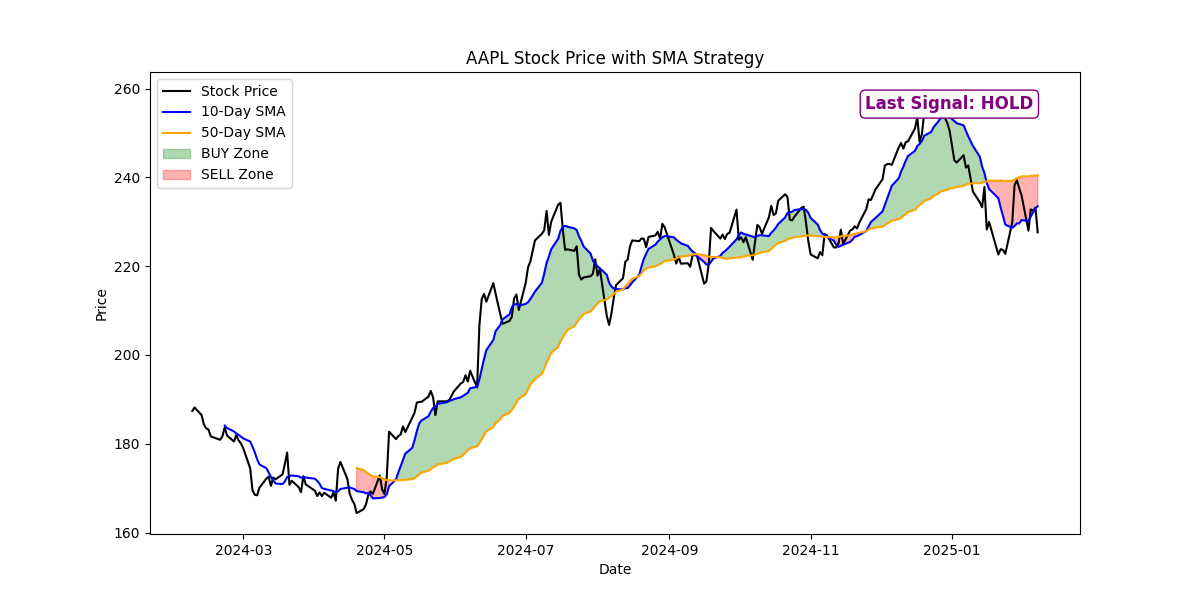
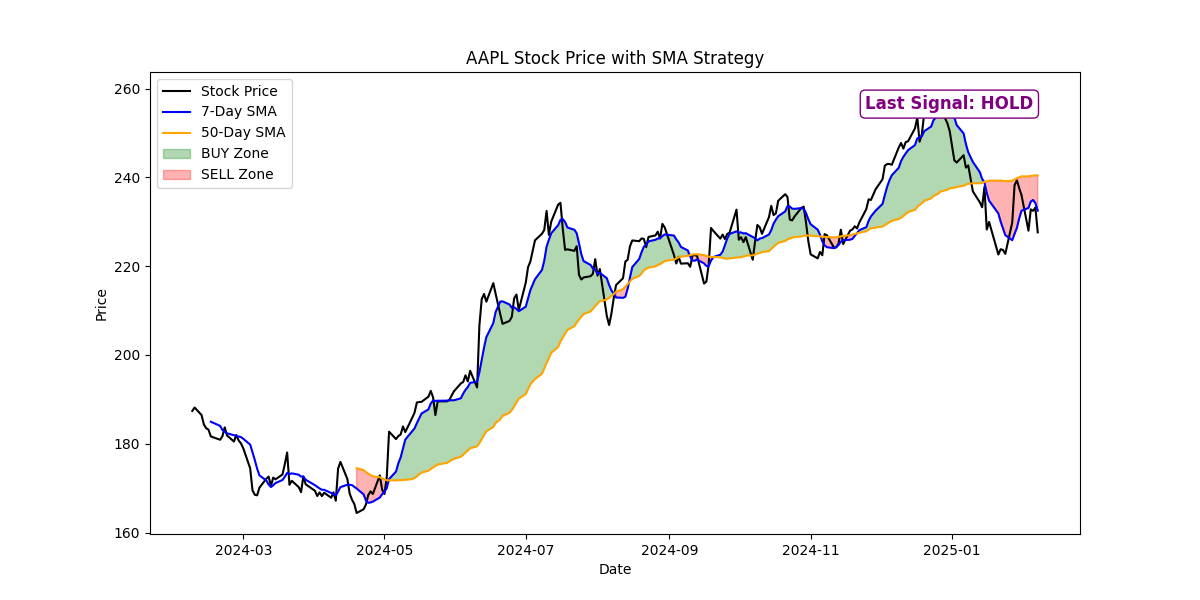
final commit

diff --git a/app/services/stock_service.py b/app/services/stock_service.py
@@ -40,13 +40,13 @@ def generate_chart(ticker: str, window: str):
     return FileResponse(file_path)
 
 
-def generate_signal(ticker: str):
+def generate_signal(ticker: str, short_window: int = 10, long_window: int = 50):
     stock = yf.Ticker(ticker)
     data = stock.history(period="1y")
 
     # Calculate Short & Long SMAs
-    data["SMA_short"] = data["Close"].rolling(window=10).mean()
-    data["SMA_long"] = data["Close"].rolling(window=50).mean()
+    data["SMA_short"] = data["Close"].rolling(window=short_window).mean()
+    data["SMA_long"] = data["Close"].rolling(window=long_window).mean()
 
     data["Signal"] = np.where(
         (data["SMA_short"].shift(2) < data["SMA_long"].shift(2)) 
@@ -63,8 +63,8 @@ def generate_signal(ticker: str):
     last_signal = data["Signal"].iloc[-1]
     plt.figure(figsize=(12, 6))
     sns.lineplot(data=data, x=data.index, y="Close", label="Stock Price", color="black")
-    sns.lineplot(data=data, x=data.index, y="SMA_short", label="10-Day SMA", color="blue")
-    sns.lineplot(data=data, x=data.index, y="SMA_long", label="50-Day SMA", color="orange")
+    sns.lineplot(data=data, x=data.index, y="SMA_short", label=f"{short_window}-Day SMA", color="blue")
+    sns.lineplot(data=data, x=data.index, y="SMA_long", label=f"{long_window}-Day SMA", color="orange")
 
     plt.fill_between(data.index, data["SMA_short"], data["SMA_long"], 
                      where=(data["SMA_short"] > data["SMA_long"]), color="green", alpha=0.3, label="BUY Zone")
@@ -92,13 +92,13 @@ def generate_signal(ticker: str):
     return FileResponse(file_path)
 
 
-def backtest_strategy(ticker: str, initial_balance: int = 10000, traling_on: bool = False):
+def backtest_strategy(ticker: str, initial_balance: int = 10000, traling_on: bool = False, short_window: int = 10, long_window: int = 50):
     stock = yf.Ticker(ticker)
     data = stock.history(period="1y")
 
     # Calculating short and long SMAs
-    data["SMA_short"] = data["Close"].rolling(window=10).mean()
-    data["SMA_long"] = data["Close"].rolling(window=50).mean()
+    data["SMA_short"] = data["Close"].rolling(window=short_window).mean()
+    data["SMA_long"] = data["Close"].rolling(window=long_window).mean()
 
     balance = initial_balance
     position = 0
@@ -126,7 +126,7 @@ def backtest_strategy(ticker: str, initial_balance: int = 10000, traling_on: boo
         # Holding a position -> Check for SL/Target updates
         elif position > 0:
             if current_price <= stop_loss:
-                balance = position * current_price  
+                balance = position * stop_loss
                 trade_log.append(f"SELL at {current_price:.2f} (Stop Loss) on {data.index[i].date()}")
                 position = 0
                 last_balance = balance

diff --git a/app/routes/stock_routes.py b/app/routes/stock_routes.py
@@ -30,25 +30,38 @@ def get_stock_chart(ticker: str, window: int):
     return stock_service.generate_chart(ticker, window)
 
 
-@router.get("/signal-sma/{ticker}", summary="Generate Buy/Sell Signals with SMA Strategy")
-def get_stock_signal(ticker: str):
+@router.get("/signal-sma/{ticker}", summary="Generate Buy/Sell Signals using SMA Strategy")
+def get_stock_signal(ticker: str, short_sma_window: int = 10, long_sma_window: int = 50):
     """
-    Generate a stock price chart with SMA (short and long) overlays.
-    Provides backtesting results and buy/sell signals based on strategy performance.
+    Generate a stock price chart with Short and Long Simple Moving Average (SMA) overlays.
+    This strategy calculates buy/sell signals based on the crossover between the short and long SMAs,
+    and provides backtesting results based on this strategy's performance.
+
+    Parameters:
+    - `short_sma_window (int)`: The window size for the short-term SMA (default is 10).
+    - `long_sma_window (int)`: The window size for the long-term SMA (default is 50).
+    
+    Returns:
+    - Buy/Sell signals and the associated chart with SMA overlays.
     """
-    return stock_service.generate_signal(ticker)
+    return stock_service.generate_signal(ticker, short_sma_window, long_sma_window)
+
 
 
 @router.get("/backtest/{ticker}", summary="Backtest SMA Strategy on Stock Data")
 def get_backtest_result(
     ticker: str, 
     initial_balance: int = 10_000, 
-    do_trailing_StopLoss: bool = False
+    do_trailing_StopLoss: bool = False,
+    short_sma_window: int = 10,
+    long_sma_window: int = 50
 ):
     """
     Perform backtesting on the SMA strategy for a given stock over the past year.
 
     - `initial_balance`: Starting capital for backtesting (default: $10,000)
     - `do_trailing_StopLoss`: Enable or disable trailing stop loss (default: False)
+    - `short_sma_window (int)`: The window size for the short-term SMA (default is 10).
+    - `long_sma_window (int)`: The window size for the long-term SMA (default is 50).
     """
-    return stock_service.backtest_strategy(ticker, initial_balance, do_trailing_StopLoss)
+    return stock_service.backtest_strategy(ticker, initial_balance, do_trailing_StopLoss, short_sma_window, long_sma_window)
